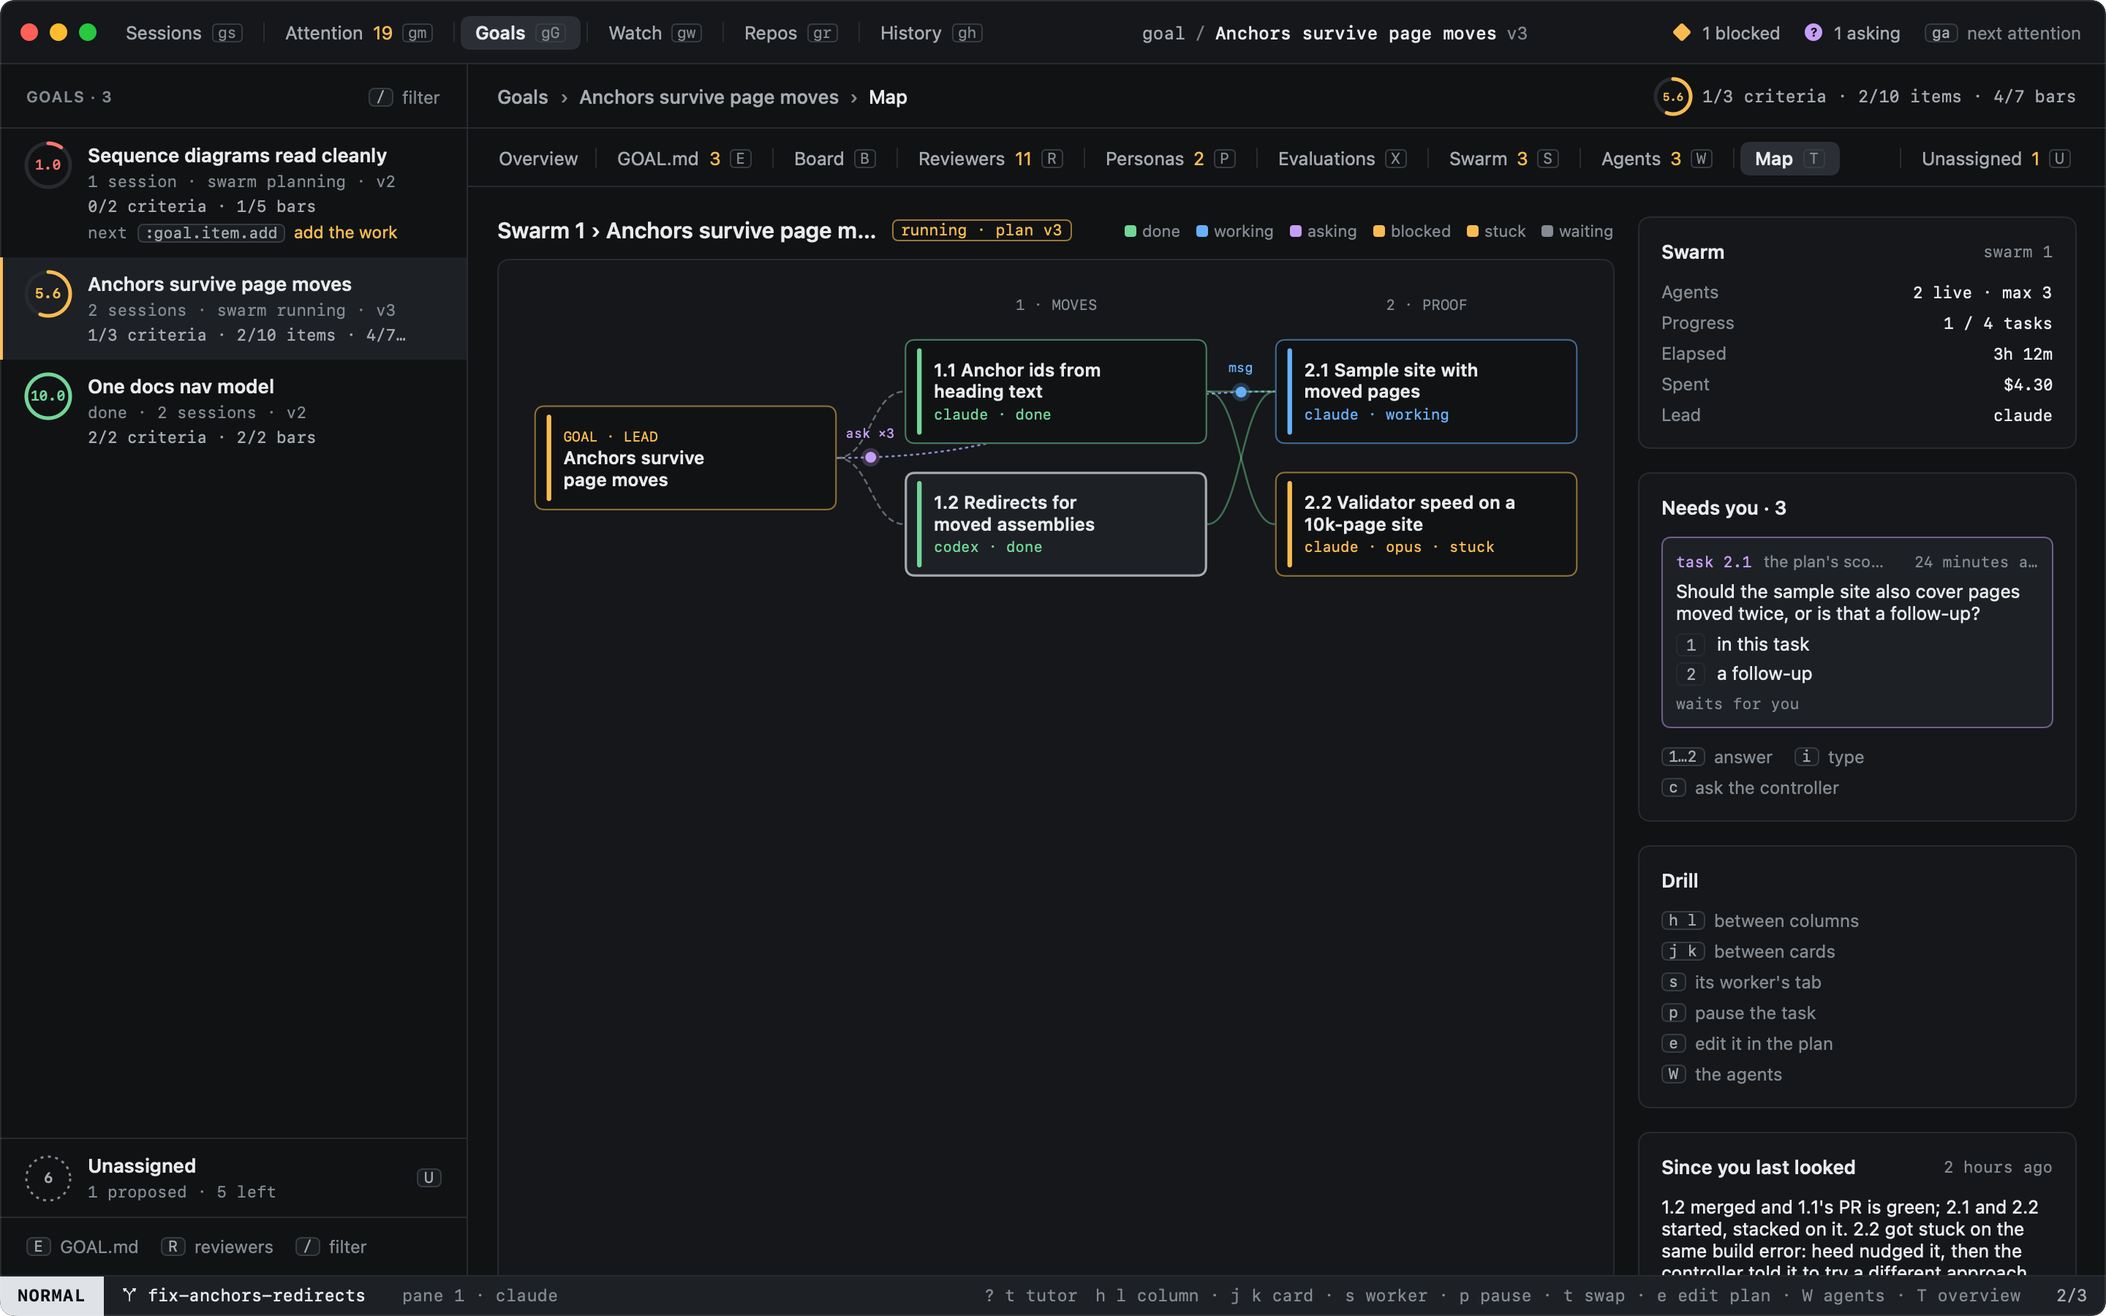
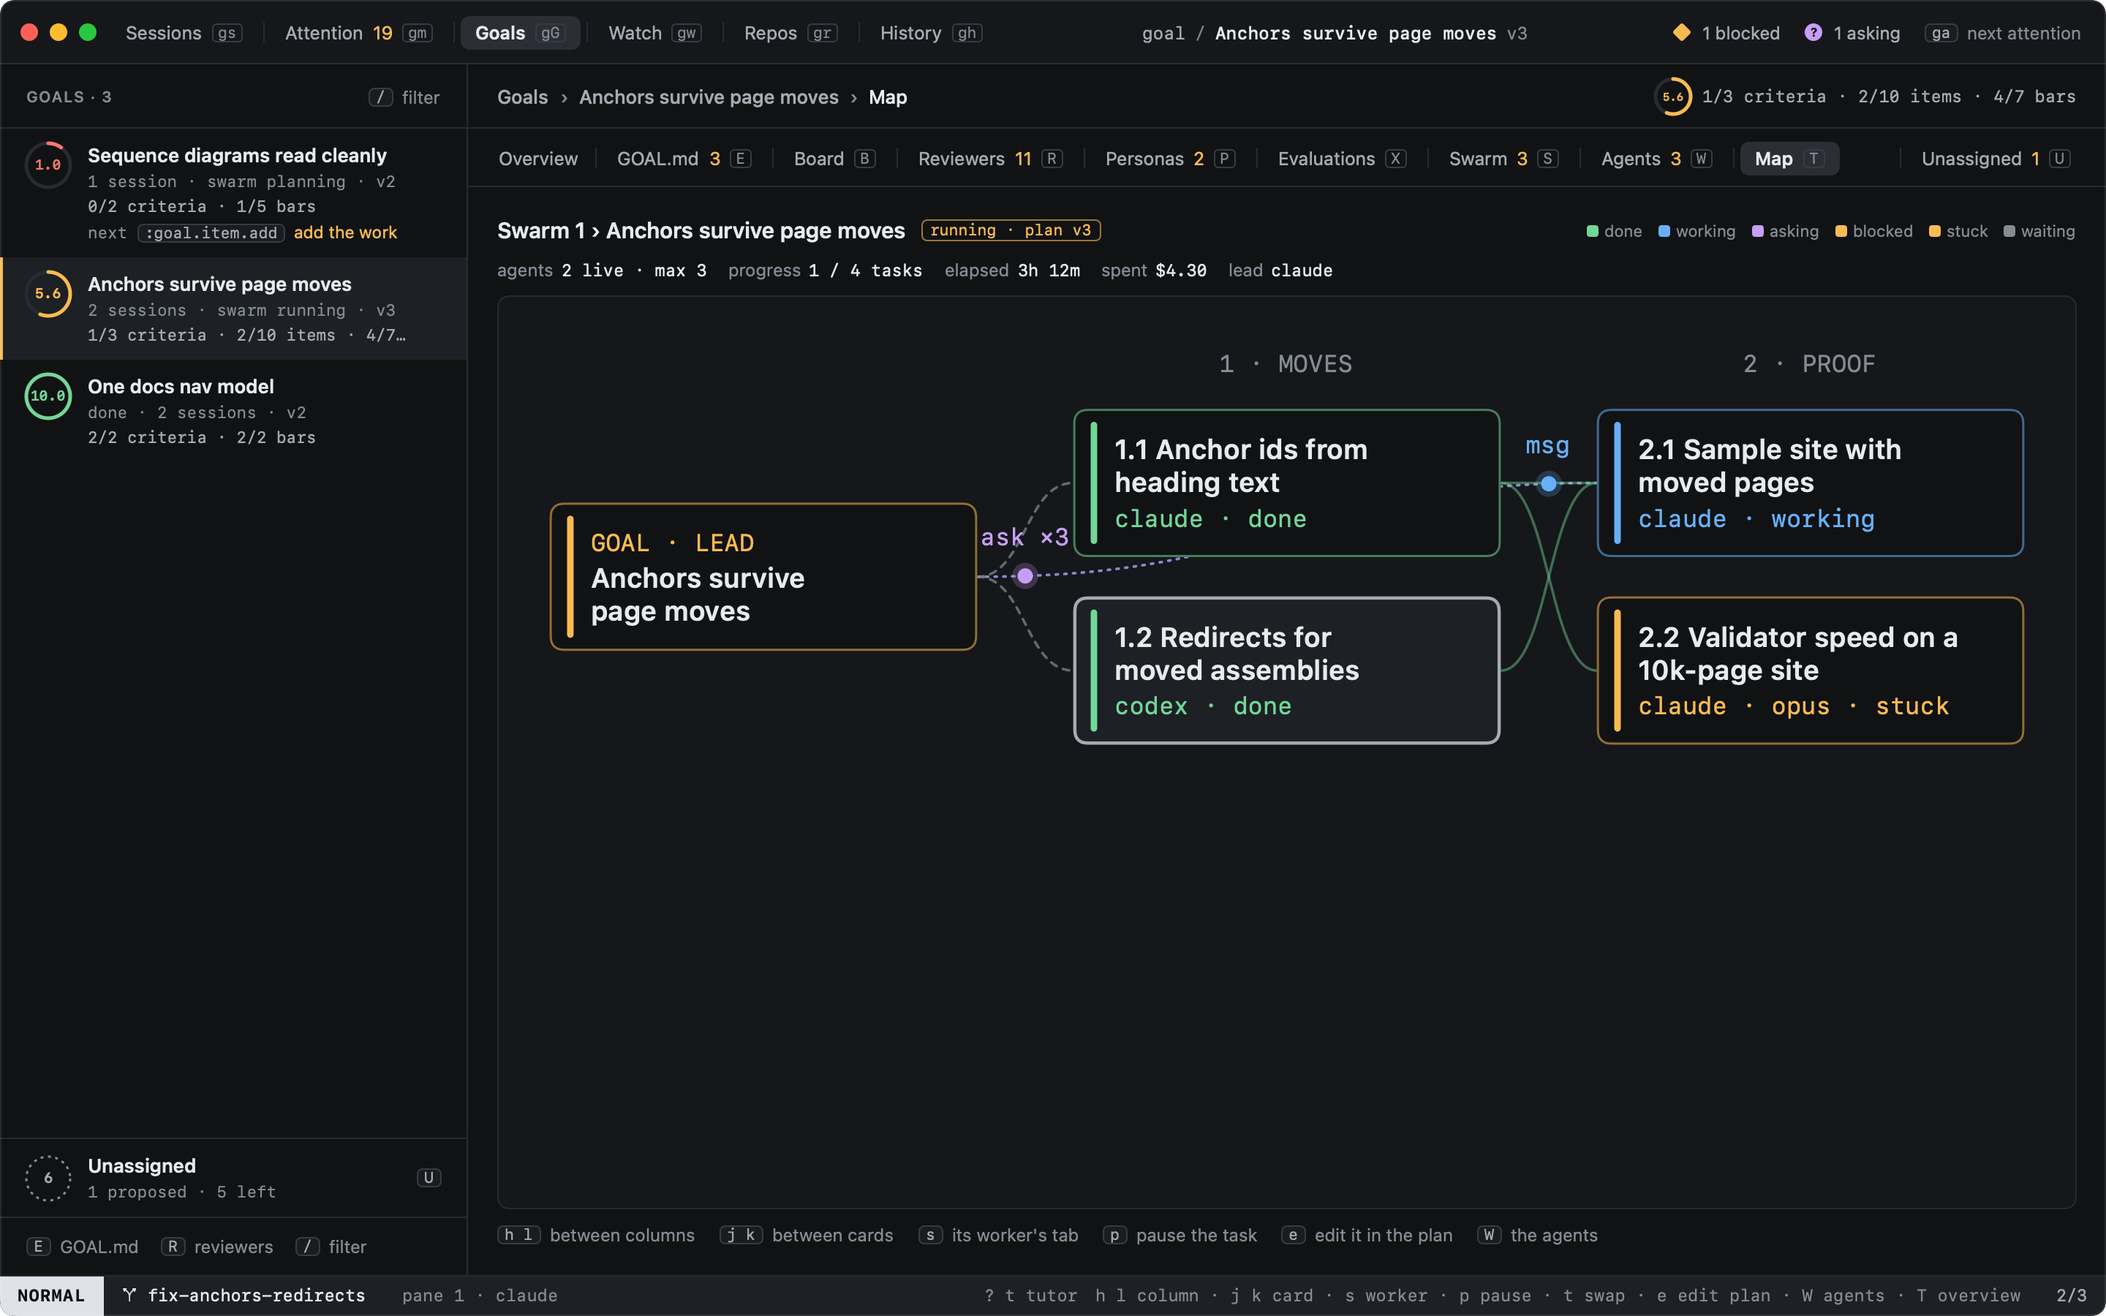
The goal map scrolls a large plan instead of shrinking it, and gives the graph the width
The map was scaled to fit, so a large plan's 9pt card text became unreadable. It now draws at its own size or larger
(SwarmMap.scale, up to half again for a small plan) and scrolls both ways, keeping the cursor's card in view as the map
keys move it. The smallest text on the cards and the column names is 11pt. The side panel, which repeated the agents
pane's Since you looked and Needs you, is gone: the swarm's numbers are a line over the map and its keys a row under it.

diff --git a/Sources/HeedApp/Views/GoalMapView.swift b/Sources/HeedApp/Views/GoalMapView.swift
@@ -2,8 +2,10 @@ import HeedCore
 import SwiftUI
 
 /// The swarm as a map (`goal.map`, `T`; deck p09): the goal and its lead on the left, the plan's phases as columns,
-/// each task a card coloured by its state, and an edge for every "after". On the right the swarm's numbers, what
-/// changed since you last looked, what needs you and the keys. h l move between columns, j k between cards.
+/// each task a card coloured by its state, and an edge for every "after". Over it the swarm's numbers in a line, under
+/// it the map's keys; what changed and what needs you are the agents pane's (`W`). h l move between columns, j k
+/// between cards. The graph is drawn at its own size or larger, never smaller: a plan too large for the pane scrolls,
+/// and the cursor's card is kept in view.
 struct GoalMapPane: View {
     @Environment(AppModel.self) private var model
     let goal: HeedGoal
@@ -11,44 +13,61 @@ struct GoalMapPane: View {
     var body: some View {
         let goals = model.goals
         if let board = goals.board, board.swarm.goal == goal.id, let layout = model.mapLayout() {
-            HStack(alignment: .top, spacing: 16) {
-                VStack(alignment: .leading, spacing: 10) {
-                    HStack(spacing: 10) {
-                        Text("Swarm \(board.swarm.number) › \(goal.title)").font(Theme.ui(15, weight: .semibold))
-                            .lineLimit(1)
-                        Text(board.swarm.stateLine).font(Theme.mono(10.5)).foregroundStyle(Theme.block)
-                            .padding(.horizontal, 6).padding(.vertical, 1)
-                            .overlay(RoundedRectangle(cornerRadius: 4).strokeBorder(Theme.block.opacity(0.6)))
-                        Spacer(minLength: 12)
-                        MapLegend()
-                    }
-                    // The whole plan in view: drawn to fit, at the top, up to half again its size for a small plan.
-                    GeometryReader { geometry in
-                        let width = layout.width + 48
-                        let height = layout.height + 48
-                        let scale = min(1.5, geometry.size.width / width, geometry.size.height / height)
-                        SwarmGraph(layout: layout, cursor: goals.mapCursor)
-                            .padding(24)
-                            .scaleEffect(scale, anchor: .topLeading)
-                            .frame(width: width * scale, height: height * scale, alignment: .topLeading)
-                            .frame(width: geometry.size.width, height: geometry.size.height, alignment: .top)
-                    }
-                    .frame(maxWidth: .infinity, maxHeight: .infinity)
-                    .background(RoundedRectangle(cornerRadius: 8).fill(Theme.bg2))
-                    .overlay(RoundedRectangle(cornerRadius: 8).strokeBorder(Theme.line))
-                    .shotRegion(.swarmMap)
+            VStack(alignment: .leading, spacing: 10) {
+                HStack(spacing: 10) {
+                    Text("Swarm \(board.swarm.number) › \(goal.title)").font(Theme.ui(15, weight: .semibold))
+                        .lineLimit(1)
+                    Text(board.swarm.stateLine).font(Theme.mono(10.5)).foregroundStyle(Theme.block)
+                        .padding(.horizontal, 6).padding(.vertical, 1)
+                        .overlay(RoundedRectangle(cornerRadius: 4).strokeBorder(Theme.block.opacity(0.6)))
+                    Spacer(minLength: 12)
+                    MapLegend()
                 }
-                ListScroll {
-                    VStack(alignment: .leading, spacing: 16) {
-                        // As the deck has it: the numbers, what needs you, the keys; then what changed.
-                        MapFacts(board: board)
-                        NeedsYouQueue(board: board, scope: "goalmap", limit: 1)
-                        MapKeys()
-                        SinceYouLooked(board: board)
+                MapFacts(board: board)
+                GeometryReader { geometry in
+                    let margin = 24.0
+                    let width = layout.width + margin * 2
+                    let height = layout.height + margin * 2
+                    let scale = SwarmMap.scale(
+                        content: (width, height), room: (geometry.size.width, geometry.size.height)
+                    )
+                    ScrollViewReader { proxy in
+                        ListScroll([.horizontal, .vertical]) {
+                            ZStack(alignment: .topLeading) {
+                                SwarmGraph(layout: layout, cursor: goals.mapCursor)
+                                    .padding(margin)
+                                    .scaleEffect(scale, anchor: .topLeading)
+                                    .frame(width: width * scale, height: height * scale, alignment: .topLeading)
+                                // Where each card is once scaled, with a margin round it: what scrolling keeps in
+                                // view (a scaled or offset view reports its frame from before).
+                                ForEach(layout.nodes) { node in
+                                    Color.clear
+                                        .frame(
+                                            width: (node.frame.width + margin * 2) * scale,
+                                            height: (node.frame.height + margin * 2) * scale
+                                        )
+                                        .padding(.leading, node.frame.x * scale)
+                                        .padding(.top, node.frame.y * scale)
+                                        .allowsHitTesting(false)
+                                        .id(node.id)
+                                }
+                            }
+                            .frame(
+                                minWidth: geometry.size.width, minHeight: geometry.size.height, alignment: .topLeading
+                            )
+                        }
+                        .onAppear { if let cursor = goals.mapCursor { proxy.scrollTo(cursor) } }
+                        .onChange(of: goals.mapCursor) { _, cursor in
+                            if let cursor { withAnimation(.easeOut(duration: 0.15)) { proxy.scrollTo(cursor) } }
+                        }
                     }
                 }
-                .frame(width: 300)
-                .frame(maxHeight: .infinity, alignment: .top)
+                .frame(maxWidth: .infinity, maxHeight: .infinity)
+                .background(RoundedRectangle(cornerRadius: 8).fill(Theme.bg2))
+                .clipShape(RoundedRectangle(cornerRadius: 8))
+                .overlay(RoundedRectangle(cornerRadius: 8).strokeBorder(Theme.line))
+                .shotRegion(.swarmMap)
+                MapKeys()
             }
             .frame(maxHeight: .infinity, alignment: .top)
             .padding(20)
@@ -83,7 +102,7 @@ private struct SwarmGraph: View {
             // Under the cards: the paths of what is in flight; over them, its dots (always in a gap between cards).
             if !flights.isEmpty { FlightPaths(flights: flights, size: layout.size) }
             ForEach(Array(layout.columns.enumerated()), id: \.offset) { index, name in
-                Text("\(index + 1) · \(name)".uppercased()).font(Theme.mono(9.5)).foregroundStyle(Theme.fg3)
+                Text("\(index + 1) · \(name)".uppercased()).font(Theme.mono(11)).foregroundStyle(Theme.fg3)
                     .frame(width: metrics.cardWidth, alignment: .center)
                     .offset(x: Double(index + 1) * (metrics.cardWidth + metrics.columnGap), y: 0)
             }
@@ -194,7 +213,7 @@ private struct FlightDots: View {
                         with: .color(flight.color)
                     )
                     canvas.draw(
-                        Text(flight.label).font(Theme.mono(8.5)).foregroundColor(flight.color),
+                        Text(flight.label).font(Theme.mono(11)).foregroundColor(flight.color),
                         at: CGPoint(x: center.x, y: center.y - 11), anchor: .bottom
                     )
                 }
@@ -216,13 +235,13 @@ private struct MapCard: View {
             (lead ? Theme.block : color).frame(width: 3).clipShape(Capsule())
             VStack(alignment: .leading, spacing: 2) {
                 if lead {
-                    Text("GOAL · LEAD").font(Theme.mono(9)).foregroundStyle(Theme.block)
+                    Text("GOAL · LEAD").font(Theme.mono(11)).foregroundStyle(Theme.block)
                 }
                 Text((node.number.isEmpty ? "" : node.number + " ") + node.title)
-                    .font(Theme.ui(11.5, weight: .semibold)).foregroundStyle(Theme.fg).lineLimit(2)
+                    .font(Theme.ui(12.5, weight: .semibold)).foregroundStyle(Theme.fg).lineLimit(2)
                     .fixedSize(horizontal: false, vertical: true)
                 if !lead {
-                    Text(node.detail).font(Theme.mono(9.5)).foregroundStyle(color).lineLimit(1)
+                    Text(node.detail).font(Theme.mono(11)).foregroundStyle(color).lineLimit(1)
                 }
             }
             Spacer(minLength: 0)
@@ -266,7 +285,7 @@ private struct MapLegend: View {
     }
 }
 
-/// The swarm's numbers beside the map: agents, progress, time, money.
+/// The swarm's numbers over the map, in a line: agents, progress, time, money, its lead.
 private struct MapFacts: View {
     @Environment(AppModel.self) private var model
     let board: SwarmBoard
@@ -278,50 +297,47 @@ private struct MapFacts: View {
         let progress = schedule.map { SwarmProgress(swarm: swarm, tasks: tasks, states: $0.states) }
         let usage = model.swarmUsage(swarm)
         let rollup = model.swarmRollup(swarm)
-        Panel(title: "Swarm", note: "swarm \(swarm.number)") {
-            VStack(alignment: .leading, spacing: 6) {
-                fact("Agents", progress?.agentsLine ?? "–")
-                fact("Progress", progress.map { "\($0.done) / \($0.total) tasks" } ?? "–")
-                fact("Elapsed", SwarmEstimate.text(max(Int(usage.elapsed / 60), 0)))
-                fact("Spent", AgentUsage.dollars(rollup.dollars) + (rollup.tokens > 0
-                        ? " · " + SwarmUsageRollup.tokens(rollup.tokens) : ""))
-                fact("Lead", swarm.settings.lead.label)
-            }
+        HStack(spacing: 14) {
+            fact("agents", progress?.agentsLine ?? "–")
+            fact("progress", progress.map { "\($0.done) / \($0.total) tasks" } ?? "–")
+            fact("elapsed", SwarmEstimate.text(max(Int(usage.elapsed / 60), 0)))
+            fact("spent", AgentUsage.dollars(rollup.dollars) + (rollup.tokens > 0
+                    ? " · " + SwarmUsageRollup.tokens(rollup.tokens) : ""))
+            fact("lead", swarm.settings.lead.label)
+            Spacer(minLength: 0)
         }
     }
 
     private func fact(_ label: String, _ value: String) -> some View {
-        HStack {
+        HStack(spacing: 5) {
             Text(label).font(Theme.ui(12)).foregroundStyle(Theme.fg3)
-            Spacer()
-            Text(value).font(Theme.mono(11)).foregroundStyle(Theme.fg).lineLimit(1)
+            Text(value).font(Theme.mono(11.5)).foregroundStyle(Theme.fg).lineLimit(1)
         }
     }
 }
 
+/// The map's keys, under it: each cap runs what its key runs.
 private struct MapKeys: View {
     @Environment(AppModel.self) private var model
 
     var body: some View {
-        Panel(title: "Drill", note: "") {
-            VStack(alignment: .leading, spacing: 6) {
-                KeyHint(
-                    "swarm.map.move",
-                    ["l"],
-                    key: pair("swarm.map.move h", "swarm.map.move l"),
-                    label: "between columns"
-                )
-                KeyHint(
-                    "swarm.map.move",
-                    ["j"],
-                    key: pair("swarm.map.move j", "swarm.map.move k"),
-                    label: "between cards"
-                )
-                KeyHint("swarm.task.open", scope: "goalmap", label: "its worker's tab")
-                KeyHint("swarm.task.pause", scope: "goalmap", label: "pause the task")
-                KeyHint("swarm.task.edit", scope: "goalmap", label: "edit it in the plan")
-                KeyHint("goal.agents", scope: "goalmap", label: "the agents")
-            }
+        FlowLayout(spacing: 16, lineSpacing: 6) {
+            KeyHint(
+                "swarm.map.move",
+                ["l"],
+                key: pair("swarm.map.move h", "swarm.map.move l"),
+                label: "between columns"
+            )
+            KeyHint(
+                "swarm.map.move",
+                ["j"],
+                key: pair("swarm.map.move j", "swarm.map.move k"),
+                label: "between cards"
+            )
+            KeyHint("swarm.task.open", scope: "goalmap", label: "its worker's tab")
+            KeyHint("swarm.task.pause", scope: "goalmap", label: "pause the task")
+            KeyHint("swarm.task.edit", scope: "goalmap", label: "edit it in the plan")
+            KeyHint("goal.agents", scope: "goalmap", label: "the agents")
         }
     }
 

diff --git a/Tests/HeedCoreTests/SwarmWatchTests.swift b/Tests/HeedCoreTests/SwarmWatchTests.swift
@@ -369,6 +369,16 @@ struct SwarmMapTests {
         #expect(layout.width == validator.frame.maxX + SwarmMap.Metrics().cardWidth + SwarmMap.Metrics().columnGap)
     }
 
+    @Test func aLargePlanScrollsInsteadOfShrinking() {
+        // Too wide or too tall for the room: drawn at its own size, never smaller.
+        #expect(SwarmMap.scale(content: (2000, 400), room: (900, 600)) == 1)
+        #expect(SwarmMap.scale(content: (600, 1200), room: (900, 600)) == 1)
+        // A small plan grows to fit, up to half again its size.
+        #expect(SwarmMap.scale(content: (600, 300), room: (900, 600)) == 1.5)
+        #expect(abs(SwarmMap.scale(content: (800, 300), room: (1000, 600)) - 1.25) < 0.001)
+        #expect(SwarmMap.scale(content: (0, 0), room: (900, 600)) == 1)
+    }
+
     @Test func theSamePlanLaysOutTheSame() {
         let one = SwarmMap.layout(goal: "G", lead: "claude", tasks: tasks, states: [:])
         let two = SwarmMap.layout(goal: "G", lead: "claude", tasks: tasks, states: [:])

diff --git a/Sources/HeedCore/Goals/SwarmMap.swift b/Sources/HeedCore/Goals/SwarmMap.swift
@@ -81,6 +81,18 @@ public enum SwarmMap {
         public init() {}
     }
 
+    /// How large the map draws in a room of `room` (width, height) for a graph of `content`, margins included: up to
+    /// half again its size when a small plan fits, and never smaller than its own size. A plan too large for the room
+    /// scrolls instead of shrinking, so its cards stay readable.
+    public static func scale(
+        content: (width: Double, height: Double),
+        room: (width: Double, height: Double)
+    ) -> Double {
+        guard content.width > 0, content.height > 0 else { return 1 }
+        let fit = min(room.width / content.width, room.height / content.height)
+        return min(max(fit, 1), 1.5)
+    }
+
     /// The layout for `tasks` (in outline order) with each task's state. `goal`: the goal's title; `lead`: its lead's
     /// label.
     public static func layout(

diff --git a/docs/goals/swarms/watching.md b/docs/goals/swarms/watching.md
@@ -121,7 +121,9 @@ limits.
 
 `T` on a goal (`:goal.map`) draws its swarm as a map: the goal and its lead on the left, the plan's phases as columns,
 each task a card coloured by its state (done, working, asking, blocked, stuck, waiting), and an edge for every task it
-waits for. A task that waits for nothing hangs off the goal. The plan is drawn whole, scaled to fit.
+waits for. A task that waits for nothing hangs off the goal. A small plan is drawn larger to fill the pane; a large one
+is never shrunk below its own size, so its cards stay readable: it scrolls both ways, and moving the cursor with the
+map's keys keeps its card in view.
 
 A dot on a dotted path is something on its way: a message, an answer or a question heed has not handed to its agent
 yet (it hands things over only when the agent is idle and you are not typing to it, see
@@ -140,8 +142,9 @@ goal's card stands for the lead, you, the controller and heed alike. While the w
 | `t` | Hand its task to another agent |
 | `e` | Edit the task, in the plan |
 
-On the right: the swarm's numbers, the first question that is yours, the keys, and what changed since you last looked.
-The status bar lists the map's own keys; a goal's list keys (`a` archive, `n` new) are not offered there, as they do
+Over the map, the swarm's numbers in a line (agents, tasks done, time, spend, its lead); under it, the map's keys, each
+one clickable. What changed since you last looked and the questions that are yours are on the agents pane (`W`), so
+the graph has the whole width. The status bar lists the map's own keys; a goal's list keys (`a` archive, `n` new) are not offered there, as they do
 not work there.
 
 ## Since you last looked
